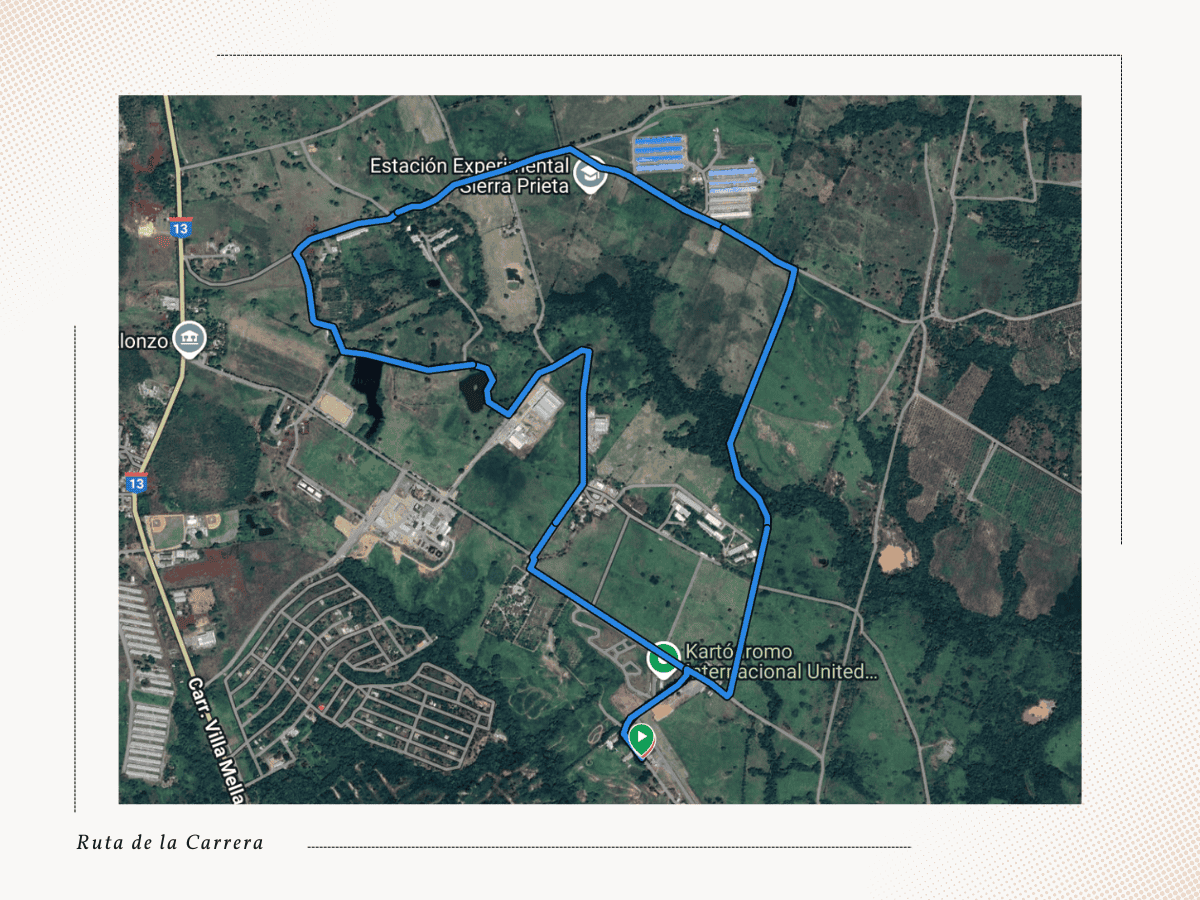
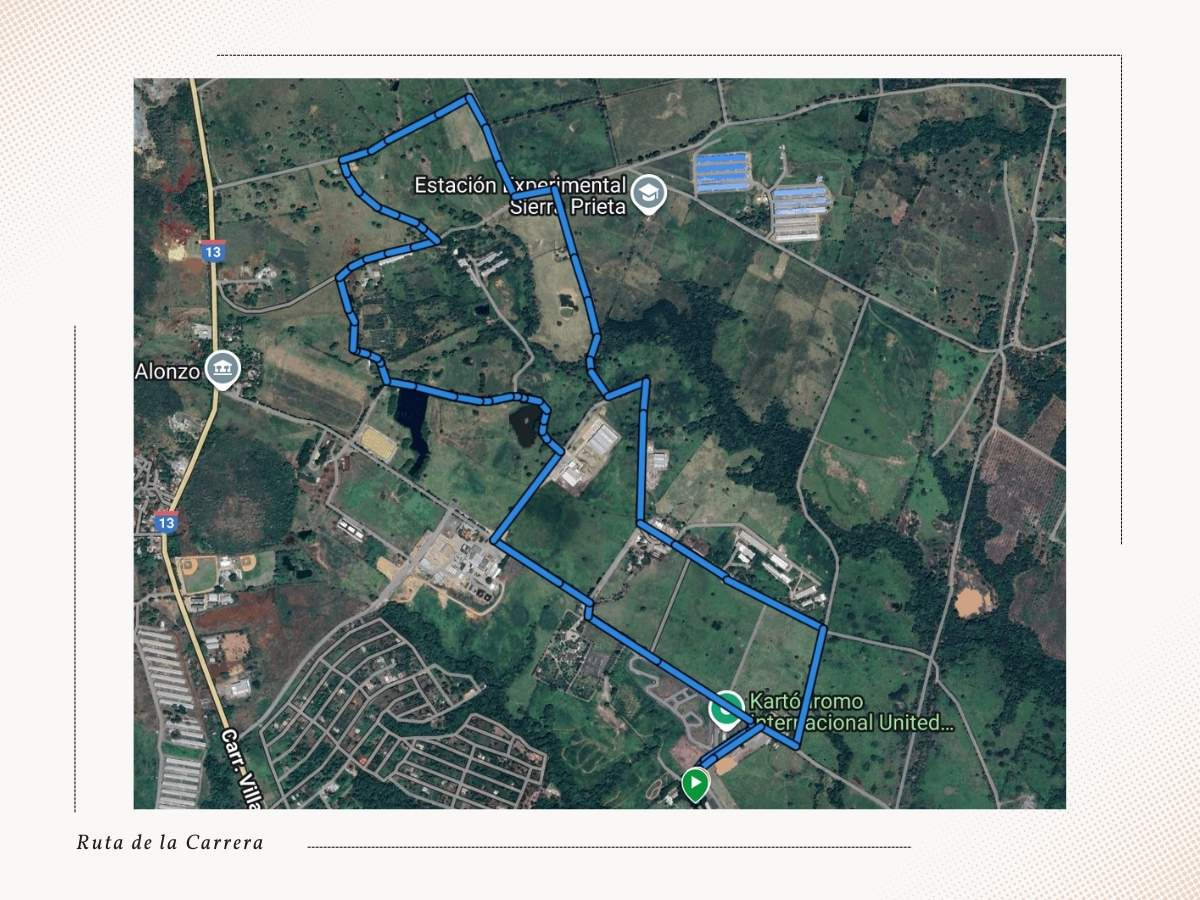
auto-commit for b188169e-8088-4dfe-b1b4-461ff5d8ddb7

diff --git a/frontend/src/components/Hero.jsx b/frontend/src/components/Hero.jsx
@@ -57,7 +57,7 @@ export default function Hero() {
                   <MapPin className="w-5 h-5 text-primary group-hover:scale-110 transition-transform" />
                   <div className="text-left">
                     <div className="text-xs text-muted-foreground font-medium">Lugar</div>
-                    <div className="text-sm font-bold text-foreground group-hover:text-primary transition-colors">Hobbyland</div>
+                    <div className="text-sm font-bold text-foreground group-hover:text-primary transition-colors">Hotel Caribbean Adventure</div>
                   </div>
                 </a>
               </div>

diff --git a/frontend/src/components/EventInfo.jsx b/frontend/src/components/EventInfo.jsx
@@ -17,11 +17,11 @@ export default function EventInfo() {
       icon: <MapPin className="w-8 h-8 text-primary" />,
       title: 'Ubicación',
       details: [
-        'Pista de Aeromodelismo, Hobbyland',
+        'Hotel Caribbean Adventure',
         'Sierra Prieta, Santo Domingo',
         'República Dominicana',
       ],
-      link: 'https://maps.app.goo.gl/5iryzkXeZhdXfYwa9',
+      link: 'https://maps.app.goo.gl/BrntZd7xFPcrmDTe7',
     },
     {
       icon: <Clock className="w-8 h-8 text-primary" />,

diff --git a/frontend/src/components/Logistics.jsx b/frontend/src/components/Logistics.jsx
@@ -9,12 +9,11 @@ export default function Logistics() {
       icon: <MapPin className="w-6 h-6" />,
       title: 'Ubicación',
       items: [
-        'Hobby Land',
-        'Finca del Grupo Alonso',
+        'Hotel Caribbean Adventure',
         'Sierra Prieta, Santo Domingo',
         'Circuito cerrado y controlado',
       ],
-      link: 'https://maps.app.goo.gl/f5Qnu2iBu3PRogNv9',
+      link: 'https://maps.app.goo.gl/BrntZd7xFPcrmDTe7',
     },
     {
       icon: <Car className="w-6 h-6" />,

diff --git a/test_result.md b/test_result.md
@@ -127,7 +127,7 @@ frontend:
     status_history:
         - working: true
         - agent: "testing"
-        - comment: "✅ PASSED - Hero section displays perfectly. Logo image loads correctly, event details visible (Sábado 24 Enero, 2026 at Hobbyland), all 4 stats display correctly (6.7 KM, 60 minutes, 24h+, 1 winner), and 'Inscripciones cerradas' badge is visible."
+        - comment: "✅ PASSED - Hero section displays perfectly. Logo image loads correctly, event details visible (Sábado 24 Enero, 2026 at Hotel Caribbean Adventure), all 4 stats display correctly (6.7 KM, 60 minutes, 24h+, 1 winner), and 'Inscripciones cerradas' badge is visible."
 
   - task: "Event Info Section Testing"
     implemented: true
